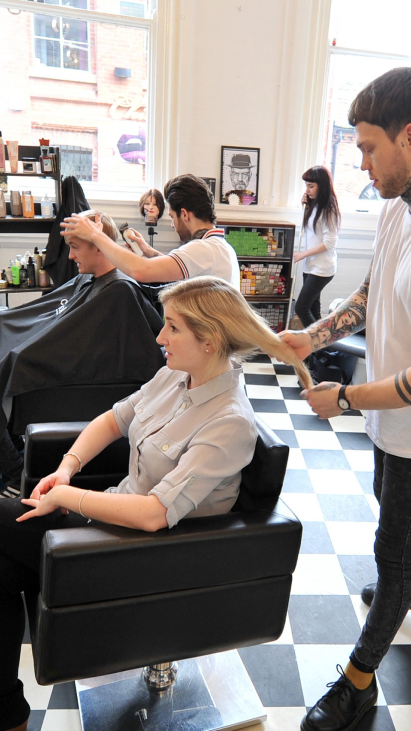
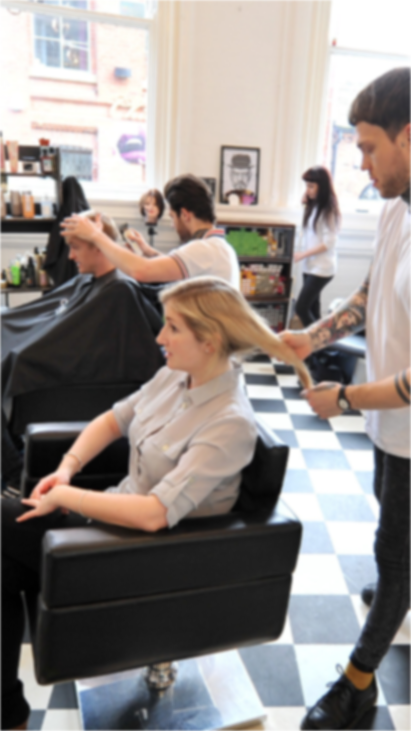
fix background login

diff --git a/source/easy_hair/app/screens/auth/LoginScreen.js b/source/easy_hair/app/screens/auth/LoginScreen.js
@@ -16,11 +16,7 @@ import {
     Alert,
     AsyncStorage,
     Dimensions
-<<<<<<< HEAD
  } from 'react-native';
-=======
-} from 'react-native';
->>>>>>> features/re-design-2
 import * as AuthActions from '../../actions/AuthAction'
 import * as DatabaseActions from '../../actions/DatabaseAction'
 import {connect} from 'react-redux'
@@ -116,7 +112,6 @@ class LoginScreen extends Component {
     {
         this.imageBackground =
             (<ImageBackground style={styles.background}
-                              blurRadius={1}
                               source={require('../../assets/images/Background.png')}>
 
                 <View style={{marginTop: "27%", paddingLeft: "12%"}}>
@@ -242,7 +237,6 @@ function mapDispatchToProps(dispatch) {
 
 export default connect(mapStateToProps, mapDispatchToProps)(LoginScreen)
 
-const {width, height} = Dimensions.get('window');
 
 const styles = StyleSheet.create({
     container: {
@@ -258,11 +252,7 @@ const styles = StyleSheet.create({
 
     background: {
         flex: 1,
-<<<<<<< HEAD
-        width:'150%',
-=======
         width: '100%',
->>>>>>> features/re-design-2
         height: height,
     },
 
